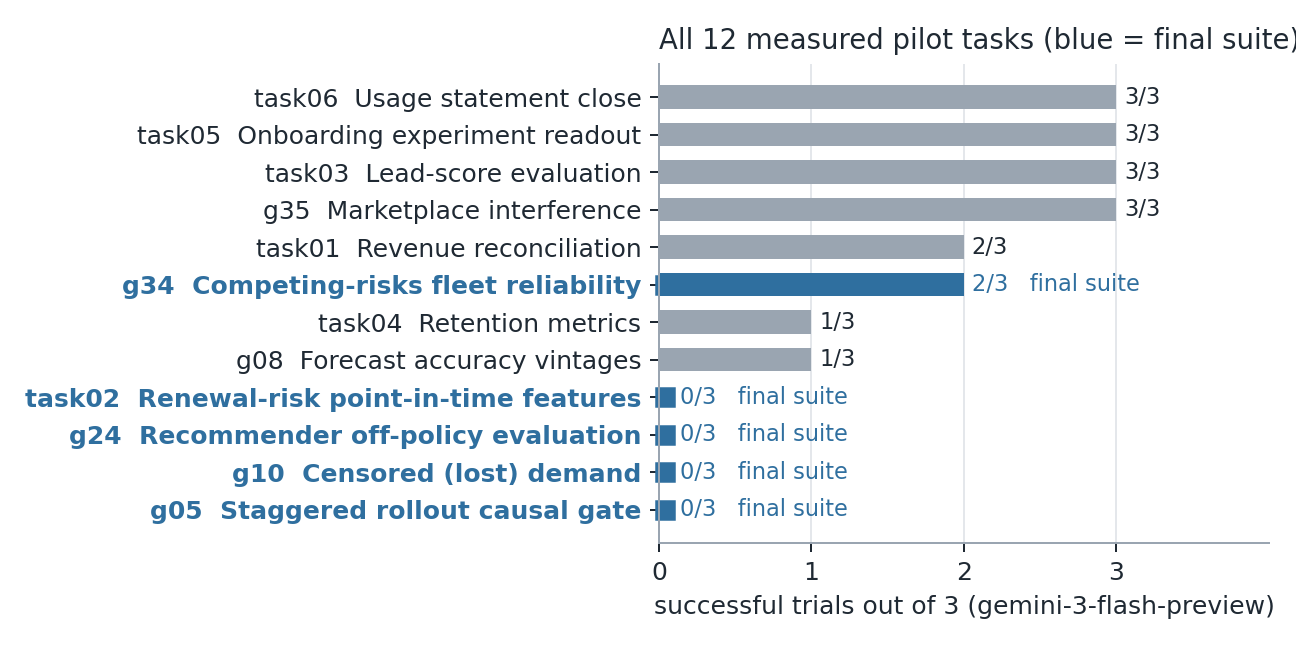
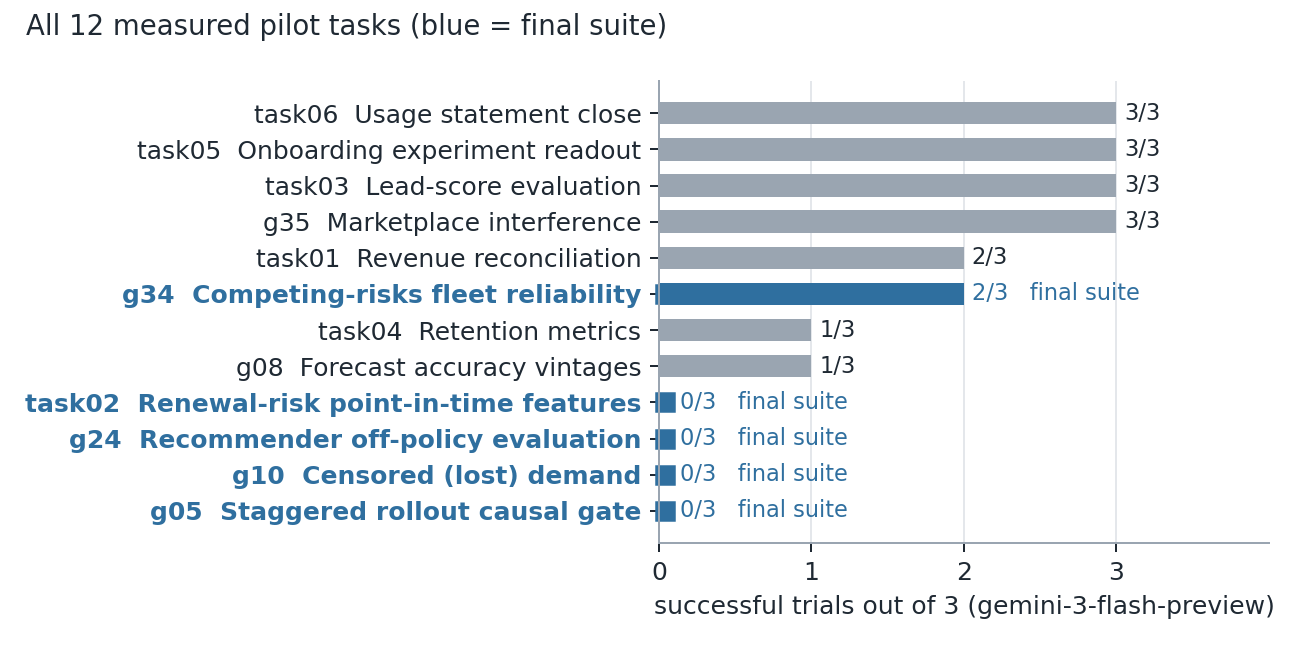
Final validation: Oracle=1/Nop=0 re-run on all five final tasks; identity via Harbor TrialLock digest
- run_validation: fresh Oracle/Nop per final task after removing git-ignored bytecode caches
- check_final_tasks/appendices/results use lock.json task.digest (Harbor's durable content
  hash); the deprecated dirhash task_checksum also hashes __pycache__ and differed for G34
- report accuracy fixes (G31/G33 wording, related work, trajectory claims, intervals)
- README: final submission section and scripts

diff --git a/scripts/write_appendices.py b/scripts/write_appendices.py
@@ -7,11 +7,18 @@ R = json.load(open(os.path.join(ROOT, "report", "data", "results.json")))
 cfg = json.load(open(os.path.join(ROOT, "scripts", "final_tasks.json")))
 
 
+def lock_digest(result_path):
+    lk = os.path.join(os.path.dirname(result_path), "lock.json")
+    d = ((json.load(open(lk)).get("task") or {}).get("digest") if os.path.exists(lk) else None) or ""
+    return d[7:23] if d.startswith("sha256:") else ""
+
+
 def result_rows(path):
     out = []
     for p in glob.glob(os.path.join(ROOT, "jobs", "*", "*", "result.json")):
         r = json.load(open(p))
         if (r.get("config", {}).get("task", {}) or {}).get("path") == path:
+            r["task_checksum"] = lock_digest(p) or r.get("task_checksum")
             out.append((p.split(os.sep)[-3], r))
     return out
 
@@ -44,7 +51,7 @@ T += ["", "## Cost accounting", "",
 open(os.path.join(ROOT, "report", "TRIALS.md"), "w").write("\n".join(T) + "\n")
 
 V = ["# Appendix B — validation evidence", "", "Generated by `scripts/write_appendices.py` from raw Harbor outputs.", "",
-     "## Oracle / Nop on the frozen task checksum", "", "| task | frozen checksum (trials) | Oracle runs on that checksum | Nop runs on that checksum |",
+     "## Oracle / Nop on the frozen task content", "", "Identity = Harbor's durable `TrialLock` task digest (`lock.json`). The deprecated `task_checksum` (a dirhash that also covers git-ignored `__pycache__` files) differs for G34 because its baselines ran with bytecode caches present; the lock digest is identical across baseline, Oracle and Nop.", "", "| task | task digest (all counted trials) | Oracle runs on that checksum | Nop runs on that checksum |",
      "|---|---|---|---|"]
 for t in cfg["tasks"]:
     rows = result_rows(t["path"])

diff --git a/scripts/check_final_tasks.py b/scripts/check_final_tasks.py
@@ -15,9 +15,13 @@ for t in cfg["tasks"]:
         r = json.load(open(p))
         if (r.get("config", {}).get("task", {}) or {}).get("path") != t["path"]:
             continue
+        lk = os.path.join(os.path.dirname(p), "lock.json")
+        dg = ((json.load(open(lk)).get("task") or {}).get("digest") if os.path.exists(lk) else None) or ""
+        # identity = Harbor's durable TrialLock task digest (excludes nothing Harbor considers task content);
+        # fall back to the deprecated dirhash task_checksum, which also hashes git-ignored bytecode caches
         rows.append(dict(job=p.split(os.sep)[-3], trial=r.get("trial_name"), agent=(r.get("agent_info") or {}).get("name"),
                          reward=((r.get("verifier_result") or {}).get("rewards") or {}).get("reward"),
-                         cs=(r.get("task_checksum") or "")[:16], exc=r.get("exception_info")))
+                         cs=(dg[7:23] if dg.startswith("sha256:") else (r.get("task_checksum") or "")[:16]), exc=r.get("exception_info")))
     base = [x for x in rows if x["trial"] in t["valid_trials"]]
     css = {x["cs"] for x in base}
     frozen_cs = css.pop() if len(css) == 1 else None
@@ -31,6 +35,6 @@ for t in cfg["tasks"]:
         "rewards_match_record": sorted(x["reward"] for x in base) == sorted(t["rewards"]),
     }
     ok &= all(checks.values())
-    print(f"{t['id']:8s} checksum={frozen_cs} rewards={[x['reward'] for x in base]} "
+    print(f"{t['id']:8s} lock_digest={frozen_cs} rewards={[x['reward'] for x in base]} "
           + " ".join(f"{k}={'OK' if v else 'FAIL'}" for k, v in checks.items()))
 sys.exit(0 if ok else 1)

diff --git a/scripts/build_results.py b/scripts/build_results.py
@@ -30,12 +30,14 @@ EXCLUDED = {"g36": "contaminated by verifier definition defect (F8); development
 rows = []
 for p in glob.glob(os.path.join(ROOT, "jobs", "*", "*", "result.json")):
     r = json.load(open(p)); job = p.split(os.sep)[-3]
+    lk = os.path.join(os.path.dirname(p), "lock.json")
+    dg = ((json.load(open(lk)).get("task") or {}).get("digest") if os.path.exists(lk) else None) or ""
     rows.append(dict(path=(r.get("config", {}).get("task", {}) or {}).get("path"), job=job, trial=r.get("trial_name"),
                      agent=(r.get("agent_info") or {}).get("name"),
                      model=((r.get("agent_info") or {}).get("model_info") or {}).get("name"),
                      reward=((r.get("verifier_result") or {}).get("rewards") or {}).get("reward"),
                      cost=(r.get("agent_result") or {}).get("cost_usd") or 0.0, exc=r.get("exception_info"),
-                     checksum=(r.get("task_checksum") or "")[:16]))
+                     checksum=(dg[7:23] if dg.startswith("sha256:") else (r.get("task_checksum") or "")[:16])))
 
 out = {"pilot": {}, "final": [t["id"] for t in cfg["tasks"]], "excluded": EXCLUDED, "costs": {}}
 tot_model = 0.0

diff --git a/scripts/make_figures.py b/scripts/make_figures.py
@@ -29,7 +29,7 @@ for lab in ax.get_yticklabels():
         lab.set_fontweight("bold"); lab.set_color(ACCENT)
 ax.set_xlim(0, 4.0); ax.set_xticks([0, 1, 2, 3]); ax.set_xlabel("successful trials out of 3 (gemini-3-flash-preview)")
 ax.grid(axis="x", color=GRID); ax.set_axisbelow(True)
-ax.set_title("All 12 measured pilot tasks (blue = final suite)", loc="left", color=INK, fontsize=11)
+fig.suptitle("All 12 measured pilot tasks (blue = final suite)", x=0.02, ha="left", color=INK, fontsize=11)
 fig.tight_layout(); fig.savefig(os.path.join(FIG, "pilot_successes.png"), dpi=180); plt.close(fig)
 
 # 2. Difficulty curve: empirical per-attempt success vs task rank, pilot vs final

diff --git a/report/REPORT.md b/report/REPORT.md
@@ -158,13 +158,13 @@ Short descriptions follow; full task details are in Appendix A.
 - **Command.** `harbor run -p samples/<task> -a gemini-cli -m google/gemini-3-flash-preview -k 3 -n 3`.
   Exactly three valid trials per task.
 - **Invalid runs** (infrastructure failures: API key or quota errors, agent-setup timeout, a verifier
-  that never executed) are recorded separately and never counted. Such runs occurred during G08, Task01
-  and G05 development. For G05, one trial whose verifier never ran was adjudicated invalid *before*
+  that never executed) are recorded separately and never counted. Such runs occurred during the Task01,
+  G08 and G05 baselines. For G05, one trial whose verifier never ran was adjudicated invalid *before*
   its replacement was launched. The adjudication records its outcome as "would have scored 0", so it
   cannot change any conclusion (Appendix C).
 - **Freezing.** Each task was frozen (content checksum recorded) before its baseline, and none was
-  modified afterwards. The Harbor task checksum recorded in every trial matches the checksum on which
-  Oracle and Nop were re-run for this report (Appendix B).
+  modified afterwards. Harbor's durable task content digest (`lock.json`) is identical across all three
+  counted trials and the Oracle and Nop runs repeated for this report (Appendix B).
 - **Verifier hardening.**
   - the agent's pipeline runs as uid 65534 with `/tests` unreadable;
   - interpreter and standard-library hashes are checked against a manifest;
@@ -214,7 +214,7 @@ the other anchor candidates on validity grounds: its failing trial is a clean, i
 the target failure (§6), and its verifier passed a post-baseline semantic audit.
 
 **Selection caveat.** The suite was selected using the same trials we report. The 20 % figure is
-therefore an optimistic (low) estimate of the suite's pass@3 on fresh draws. §7 discusses this.
+therefore an optimistic (low) estimate of the suite's pass@3 on fresh draws (§10).
 
 ---
 
@@ -250,7 +250,7 @@ All three trials went straight to the point-in-time hypothesis. One reasoned exp
 `synced_at < prediction_date`." All three then implemented history reconstruction with
 **grouping-key errors**:
 - expansion-opportunity state keyed once per opportunity instead of per (entity, prediction date);
-- record existence tested on CRM time rather than load time.
+- in two trials, record existence also tested on CRM time rather than load time.
 
 Validation stopped at "AUC 0.77, close to the previous model version"; no example-level check was
 done. **Why these are genuine failures:**
@@ -262,8 +262,8 @@ done. **Why these are genuine failures:**
 ### G05 — rebuilt the panel exactly, never asked what identifies the effect (0/3)
 All three valid trials reconstructed the analysis panel **exactly** on all four extracts: actual
 go-live, event time, comparability, log net sales. All three then fit store + week fixed effects with
-no format conditioning. None opened the wave-sequencing document; none ran a pre-trend or placebo
-check.
+no format conditioning. None discovered that waves were sequenced by format; none ran a pre-trend or
+placebo check.
 
 In `rsDKTXQ` the agent wrote that including kit type "seems essential" and then chose the pooled
 estimate because "the 'stop' recommendation based on this is safe." That is estimand selection
@@ -289,8 +289,9 @@ exploration stream. They then applied it to the wrong object:
 
 Two submissions are numerically identical to pre-registered mutations
 (`wrong_weight_pre_filter_pool`, `wrong_keep_first_serve`). Patching ykNY8fD's decision grouping
-(~25 lines) makes it pass every check on all four extracts. Each failure is one semantic step from
-correct, which shows the verifier is not over-strict.
+(~25 lines) makes it pass every check on all four extracts. a8zVL7h needs two such patches (action
+space and decision anchor). The failures are one or two semantic steps from correct, which shows the
+verifier is not over-strict.
 
 ### G34 — the discriminator is whether the agent reasons about the risk set (2/3)
 The failing trial (UPCLpLx) reached the right framing: it said Kaplan–Meier answers engineering's
@@ -307,8 +308,8 @@ semantic audit confirmed the grading:
   contract rules out.
 
 ### Cross-task findings
-1. **Recognition is not the bottleneck; object preservation is.** In 13 of 13 failed trials the agent
-   named the right problem class. The failures appear at the step where a named concept must be turned
+1. **Recognition is not the bottleneck; object preservation is.** In every failed trial the agent
+   identified the broad problem class. The failures appear at the step where a named concept must be turned
    into a specific estimand: conditioning set, action space, decision unit, risk set, or as-of key.
 2. **Agents stop when the analysis is coherent or decision-plausible, not when it has been tested.**
    The failed trials include no pre-trend, placebo or held-out check, and no assumption test. Across
@@ -341,8 +342,8 @@ because it shows what makes a DS task *gradable*.
 
 | design | intended phenomenon | failure | caught by |
 |---|---|---|---|
-| G31 | selective labels in fraud chargebacks | a label-free heuristic recovered every decision; one of three mechanisms inert | adversarial review, cheap-solve search |
-| G33 | entity resolution | constant decision correct in 54/60 worlds; wrong mappings within 0.4–1.6 % | kill criteria |
+| G31 | selective labels in fraud chargebacks | a label-free heuristic recovered every decision; two of three intended mechanisms inert | adversarial review, cheap-solve search |
+| G33 | entity resolution | constant decision correct in 54/60 worlds; wrong entity mappings within 0.004–0.016 (absolute share) of truth | kill criteria |
 | G37 | measurement-system change (errors-in-variables) | valid-estimator noise ≈ size of subtle wrong methods (window ratio 0.01) | pre-registered tolerance window |
 | G38 | regression to the mean under threshold-triggered intervention | irreducible counterfactual noise; naive dashboard only ~2 SE away at a realistic trigger (ratio ≈ 0) | pre-registered tolerance window |
 | G39 (12 concepts) | deterministic optimisation, normalisation, aggregation | wrong objects coincide exactly whenever their trap is inactive; pinning the definition pins the computation | separation and counterexample gates |
@@ -350,11 +351,16 @@ because it shows what makes a DS task *gradable*.
 
 **The general lesson.** A statistical phenomenon can be real, industry-relevant and identifiable, and
 still be **ungradable**. That happens when plausible wrong analyses land inside the uncertainty of
-correct ones. We therefore required, *before building*:
+correct ones. The gates we developed during the project (mostly after G36) now apply to any new
+task *before it is built*:
 - a measured valid/wrong separation (worst plausible wrong error ≥ 3× the valid bound);
 - a counterexample search;
 - a natural-implementation-path audit;
 - an independent derivation of every graded quantity.
+
+The shipped tasks predate the strictest form of these gates. Each was built with a pre-registered
+wrong-method panel, Monte-Carlo tolerance calibration and a mutation suite. G34 additionally passed a
+post-baseline, zero-model-call semantic audit against the full gate set.
 
 The surviving tasks are the ones where the wrong analysis computes a *different object* with a large
 error (G10: 9.7–68× tolerance; G05: wrong routes ≥ 4.6τ vs ≤ 0.54τ for valid ones).
@@ -367,8 +373,10 @@ error (G10: 9.7–68× tolerance; G05: wrong routes ≥ 4.6τ vs ≤ 0.54τ for 
   leaderboards. It measures modelling skill against a score. We measure whether the *quantity* is the
   right one.
 - **DSBench** (Jing et al., ICLR 2025; arXiv:2409.07703) and **InfiAgent-DABench** (Hu et al., 2024;
-  arXiv:2401.05507): analysis and modelling tasks with closed-form answers. Useful formats, but
-  mostly single-step questions over clean files.
+  arXiv:2401.05507): data-analysis questions with closed-form answers (DABench) and analysis plus
+  Kaggle-style modelling tasks with long contexts and multiple tables (DSBench, whose best agent solved
+  34 % of analysis tasks). Both grade an answer to a stated question; neither asks whether an
+  organisation's existing number estimates the right quantity.
 - **DSAEval** (2026; arXiv:2601.13591): 641 problems over 285 datasets with multi-dimensional
   evaluation. It finds agents strong on structured, routine analysis. Our results locate the weakness
   *inside* structured analysis, at estimand choice.
@@ -426,7 +434,7 @@ The design already factors each task into reusable parts:
 5. **Human review on a sample**, focused on contract wording: the one place where an automated gate
    missed a defect (G36).
 
-At our observed costs (≈ $0.10–0.30 per trial, ≈ $0.50 per `harbor check`), piloting 1,000 tasks × 3
+At our observed costs (≈ $0.04–0.30 per trial, ≈ $0.50 per `harbor check`), piloting 1,000 tasks × 3
 trials is a few hundred dollars. The binding cost is generator and verifier engineering, which the
 mechanism library amortises.
 
@@ -435,7 +443,8 @@ mechanism library amortises.
 ## 10. Limitations
 
 - **Small n.** Three trials per task gives wide intervals: the aggregate trial rate has a 95 % Wilson
-  interval of 3.7–37.9 %.
+  interval of 3.7–37.9 %, and the task-level pass@3 of 1/5 has 3.6–62.4 %. The < 30 % bar is met
+as a point estimate; with five tasks it cannot be established tightly.
 - **Selection on the reported trials.** The suite was chosen with the same trials, so its pass@3 is
   biased low. Fresh draws would likely come out somewhat higher.
 - **One model, one harness** (gemini-cli). The findings are about this configuration.
@@ -481,13 +490,13 @@ Reproduce a baseline with:
 See each task's `instruction.md`, `task.toml` (difficulty and verification explanations) and
 `tests/`. Key facts:
 
-| task | `samples/` directory | Harbor task checksum (all trials) | expert time estimate |
+| task | `samples/` directory | Harbor task digest (all trials, Oracle, Nop) | expert time estimate |
 |---|---|---|---|
-| Task02 | `02-renewal-risk-regression` | 6a7ce988f11b5b67 | 120 min |
-| G05 | `g05-sco-rollout-gate` | 56c1d86ea2ca9df1 | 300 min |
-| G10 | `g10-censored-demand` | d72cc255793fc6f4 | 240 min |
-| G24 | `g24-recommender-ope` | cb3046e8da894df3 | 240 min |
-| G34 | `g34-fleet-reliability-gate` | 48b9cdb1bb48d5b5 | 240 min |
+| Task02 | `02-renewal-risk-regression` | 165ade77dd2e05fe | 120 min |
+| G05 | `g05-sco-rollout-gate` | d516b423252435b5 | 300 min |
+| G10 | `g10-censored-demand` | b6753d713539dd54 | 240 min |
+| G24 | `g24-recommender-ope` | 3db8174c4d56b0ea | 240 min |
+| G34 | `g34-fleet-reliability-gate` | d364e09a2f2e2f32 | 240 min |
 
 ## Appendix B — validation evidence
 See `VALIDATION.md` (generated): Oracle/Nop on the frozen checksum, `harbor check` outcomes, mutation

diff --git a/report/TRIALS.md b/report/TRIALS.md
@@ -6,21 +6,21 @@ Generated by `scripts/write_appendices.py` from raw Harbor `result.json` files.
 
 | task | job | trial | reward | cost (USD) | task checksum |
 |---|---|---|---|---|---|
-| task02 | task02-gemini3flash-diagnosis | 02-renewal-risk-regression__JctTpSi | 0.0 | 0.2591 | 6a7ce988f11b5b67 |
-| task02 | task02-gemini3flash-diagnosis | 02-renewal-risk-regression__nXXMdDm | 0.0 | 0.2353 | 6a7ce988f11b5b67 |
-| task02 | task02-gemini3flash-diagnosis | 02-renewal-risk-regression__pf9zaPc | 0.0 | 0.2078 | 6a7ce988f11b5b67 |
-| g05 | g05-gemini3flash-baseline-1 | g05-sco-rollout-gate__MMGNYFS | 0.0 | 0.1552 | 56c1d86ea2ca9df1 |
-| g05 | g05-gemini3flash-baseline-1 | g05-sco-rollout-gate__PYhR2eh | 0.0 | 0.1525 | 56c1d86ea2ca9df1 |
-| g05 | g05-gemini3flash-baseline-2 | g05-sco-rollout-gate__rsDKTXQ | 0.0 | 0.1833 | 56c1d86ea2ca9df1 |
-| g10 | g10-gemini3flash-baseline-1 | g10-censored-demand__LhEU3ny | 0.0 | 0.1792 | d72cc255793fc6f4 |
-| g10 | g10-gemini3flash-baseline-1 | g10-censored-demand__cLtM9yi | 0.0 | 0.2431 | d72cc255793fc6f4 |
-| g10 | g10-gemini3flash-baseline-1 | g10-censored-demand__eMXZbBi | 0.0 | 0.1620 | d72cc255793fc6f4 |
-| g24 | g24-gemini3flash-baseline-1 | g24-recommender-ope__a8zVL7h | 0.0 | 0.1770 | cb3046e8da894df3 |
-| g24 | g24-gemini3flash-baseline-1 | g24-recommender-ope__wVmAykK | 0.0 | 0.1580 | cb3046e8da894df3 |
-| g24 | g24-gemini3flash-baseline-1 | g24-recommender-ope__ykNY8fD | 0.0 | 0.1787 | cb3046e8da894df3 |
-| g34 | g34-gemini3flash-baseline-3 | g34-fleet-reliability-gate__SdvVPQN | 1.0 | 0.0335 | 48b9cdb1bb48d5b5 |
-| g34 | g34-gemini3flash-baseline-2 | g34-fleet-reliability-gate__UPCLpLx | 0.0 | 0.0528 | 48b9cdb1bb48d5b5 |
-| g34 | g34-gemini3flash-baseline-1 | g34-fleet-reliability-gate__hLbWzqK | 1.0 | 0.0381 | 48b9cdb1bb48d5b5 |
+| task02 | task02-gemini3flash-diagnosis | 02-renewal-risk-regression__JctTpSi | 0.0 | 0.2591 | 165ade77dd2e05fe |
+| task02 | task02-gemini3flash-diagnosis | 02-renewal-risk-regression__nXXMdDm | 0.0 | 0.2353 | 165ade77dd2e05fe |
+| task02 | task02-gemini3flash-diagnosis | 02-renewal-risk-regression__pf9zaPc | 0.0 | 0.2078 | 165ade77dd2e05fe |
+| g05 | g05-gemini3flash-baseline-1 | g05-sco-rollout-gate__MMGNYFS | 0.0 | 0.1552 | d516b423252435b5 |
+| g05 | g05-gemini3flash-baseline-1 | g05-sco-rollout-gate__PYhR2eh | 0.0 | 0.1525 | d516b423252435b5 |
+| g05 | g05-gemini3flash-baseline-2 | g05-sco-rollout-gate__rsDKTXQ | 0.0 | 0.1833 | d516b423252435b5 |
+| g10 | g10-gemini3flash-baseline-1 | g10-censored-demand__LhEU3ny | 0.0 | 0.1792 | b6753d713539dd54 |
+| g10 | g10-gemini3flash-baseline-1 | g10-censored-demand__cLtM9yi | 0.0 | 0.2431 | b6753d713539dd54 |
+| g10 | g10-gemini3flash-baseline-1 | g10-censored-demand__eMXZbBi | 0.0 | 0.1620 | b6753d713539dd54 |
+| g24 | g24-gemini3flash-baseline-1 | g24-recommender-ope__a8zVL7h | 0.0 | 0.1770 | 3db8174c4d56b0ea |
+| g24 | g24-gemini3flash-baseline-1 | g24-recommender-ope__wVmAykK | 0.0 | 0.1580 | 3db8174c4d56b0ea |
+| g24 | g24-gemini3flash-baseline-1 | g24-recommender-ope__ykNY8fD | 0.0 | 0.1787 | 3db8174c4d56b0ea |
+| g34 | g34-gemini3flash-baseline-3 | g34-fleet-reliability-gate__SdvVPQN | 1.0 | 0.0335 | d364e09a2f2e2f32 |
+| g34 | g34-gemini3flash-baseline-2 | g34-fleet-reliability-gate__UPCLpLx | 0.0 | 0.0528 | d364e09a2f2e2f32 |
+| g34 | g34-gemini3flash-baseline-1 | g34-fleet-reliability-gate__hLbWzqK | 1.0 | 0.0381 | d364e09a2f2e2f32 |
 
 **Final suite:** 2 / 15 successful trials; 1 / 5 tasks with pass@3 = 1 (20 %).
 

diff --git a/README.md b/README.md
@@ -20,19 +20,22 @@ Research question and hypotheses: [`research/hypothesis.md`](research/hypothesis
 | `logs/` | Curated run summaries (raw Harbor `jobs/` is git-ignored). |
 | `report/` | Validation reports and final write-up. |
 
-## Task status
+## Final submission (see `report/REPORT.md`)
 
-| Task | Oracle | Nop | Mutation suite | Model runs |
-|------|--------|-----|----------------|------------|
-| 01 revenue reconciliation | 1.0 | 0.0 | 28/28 as expected | Gemini 3 Flash: 2/3 pass (pass@3 = 1) |
-| 02 renewal-risk regression | 1.0 | 0.0 | 21/21 as expected | Gemini 3 Flash: diagnosis 0/3; explicit-invariant ablation 0/3 (confounded) |
-| 03 lead-score evaluation | 1.0 | 0.0 | 24/24 as expected | Gemini 3 Flash: 3/3 (pass@3 = 1) |
-| 04 retention metrics | 1.0 | 0.0 | 24/24 as expected | Gemini 3 Flash: 1/3 (pass@3 = 1) |
-| 05 experiment readout | 1.0 | 0.0 | 27/27 as expected (1 informational) | Gemini 3 Flash: 3/3 (pass@3 = 1) |
-| 06 usage statement close (gen 2) | 1.0 | 0.0 | 29/29 as expected | not run |
+Final suite (5 tasks; `scripts/final_tasks.json`): Task02, G05, G10, G24, G34.
+- gemini-3-flash-preview: 2/15 successful trials; task-level pass@3 = 1/5 (20 %).
+- Full pilot pool (12 measured tasks) and all rejected designs: `report/TRIALS.md`, `research/task_design_failure_analysis.md`.
+- Excluded: G36 (contaminated, F8), G37/G38 (research-only drops), G39/G40 searches (dropped at gates).
 
-Benchmark-level docs: `research/benchmark_hypothesis.md`, `research/distribution_matrix.md`,
-`research/cross_task_review.md`, `research/failure_taxonomy.md`.
+| Script | Purpose |
+|--------|---------|
+| `scripts/build_results.py` | `report/data/results.json` from raw `jobs/` (read-only) |
+| `scripts/check_final_tasks.py` | Oracle=1 / Nop=0 / 3 valid trials on one frozen checksum, per final task |
+| `scripts/run_validation.sh` | re-run Oracle + Nop for the final tasks (free, sequential) |
+| `scripts/run_tb3_checks.sh` | `harbor check` with the TB3 rubric (paid evaluator) |
+| `scripts/make_figures.py`, `scripts/write_appendices.py` | figures, `TRIALS.md`, `VALIDATION.md` |
+| `scripts/build_submission.sh` | `submission/{samples,logs,report}` + `submission.zip` |
+| `scripts/secret_scan.sh`, `scripts/final_audit.sh` | secret scan; end-to-end audit (never runs a model) |
 
 ## Common commands
 

diff --git a/report/VALIDATION.md b/report/VALIDATION.md
@@ -2,15 +2,17 @@
 
 Generated by `scripts/write_appendices.py` from raw Harbor outputs.
 
-## Oracle / Nop on the frozen task checksum
+## Oracle / Nop on the frozen task content
 
-| task | frozen checksum (trials) | Oracle runs on that checksum | Nop runs on that checksum |
+Identity = Harbor's durable `TrialLock` task digest (`lock.json`). The deprecated `task_checksum` (a dirhash that also covers git-ignored `__pycache__` files) differs for G34 because its baselines ran with bytecode caches present; the lock digest is identical across baseline, Oracle and Nop.
+
+| task | task digest (all counted trials) | Oracle runs on that checksum | Nop runs on that checksum |
 |---|---|---|---|
-| task02 | 6a7ce988f11b5b67 | — | — |
-| g05 | 56c1d86ea2ca9df1 | — | — |
-| g10 | d72cc255793fc6f4 | — | — |
-| g24 | cb3046e8da894df3 | g24-oracle-prebaseline: 1.0 | g24-nop-prebaseline: 0.0 |
-| g34 | 48b9cdb1bb48d5b5 | — | g34-nop-final: 0.0 |
+| task02 | 165ade77dd2e05fe | final-oracle-02-renewal-risk-regression: 1.0; task02-oracle-2: 1.0 | final-nop-02-renewal-risk-regression: 0.0; task02-nop-2: 0.0 |
+| g05 | d516b423252435b5 | final-oracle-g05-sco-rollout-gate: 1.0; g05-oracle-prebaseline: 1.0 | final-nop-g05-sco-rollout-gate: 0.0; g05-nop-prebaseline: 0.0 |
+| g10 | b6753d713539dd54 | final-oracle-g10-censored-demand: 1.0 | final-nop-g10-censored-demand: 0.0 |
+| g24 | 3db8174c4d56b0ea | final-oracle-g24-recommender-ope: 1.0; g24-oracle-prebaseline: 1.0 | final-nop-g24-recommender-ope: 0.0; g24-nop-prebaseline: 0.0 |
+| g34 | d364e09a2f2e2f32 | final-oracle-g34-fleet-reliability-gate: 1.0 | final-nop-g34-fleet-reliability-gate: 0.0; g34-nop-final: 0.0 |
 
 ## harbor check
 
